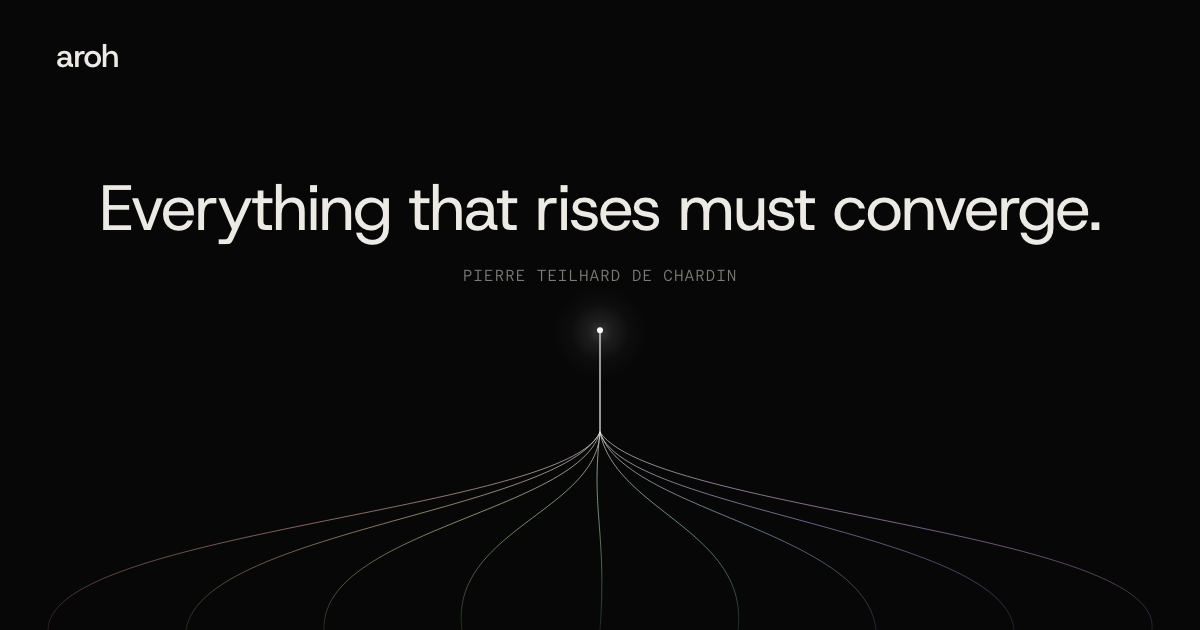
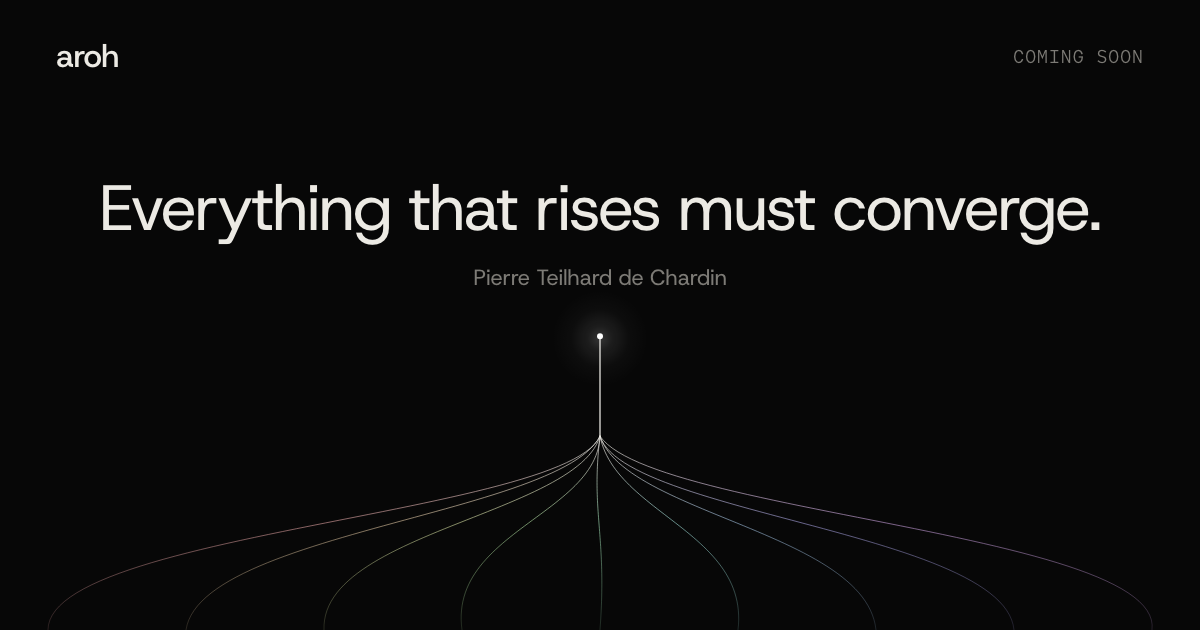
Restyle the credit line and add Coming soon to title and share image

diff --git a/public/index.html b/public/index.html
@@ -3,10 +3,10 @@
 <head>
 <meta charset="utf-8">
 <meta name="viewport" content="width=device-width, initial-scale=1">
-<title>Aroh</title>
+<title>Aroh · Coming soon</title>
 <meta name="description" content="Aroh. Everything that rises must converge.">
 <meta name="theme-color" content="#070707">
-<meta property="og:title" content="Aroh">
+<meta property="og:title" content="Aroh · Coming soon">
 <meta property="og:description" content="Everything that rises must converge.">
 <meta property="og:type" content="website">
 <meta property="og:url" content="https://aroh.si/">
@@ -82,12 +82,12 @@
   }
 
   .credit {
-    margin: 18px 0 0;
+    margin: clamp(12px, 1.6vw, 18px) 0 0;
     color: var(--muted);
-    font-family: var(--mono);
-    font-size: 0.75rem;
-    letter-spacing: 0.06em;
-    text-transform: uppercase;
+    font-family: var(--display);
+    font-size: clamp(0.8125rem, 1.4vw, 1.0625rem);
+    font-weight: 400;
+    letter-spacing: -0.01em;
   }
 
   .foot {
